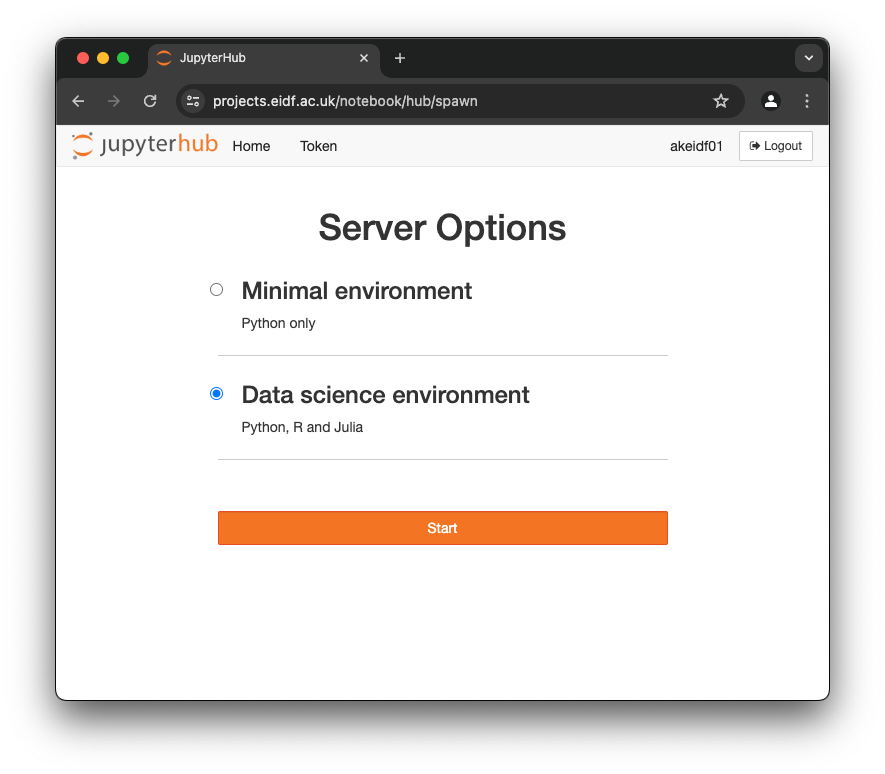
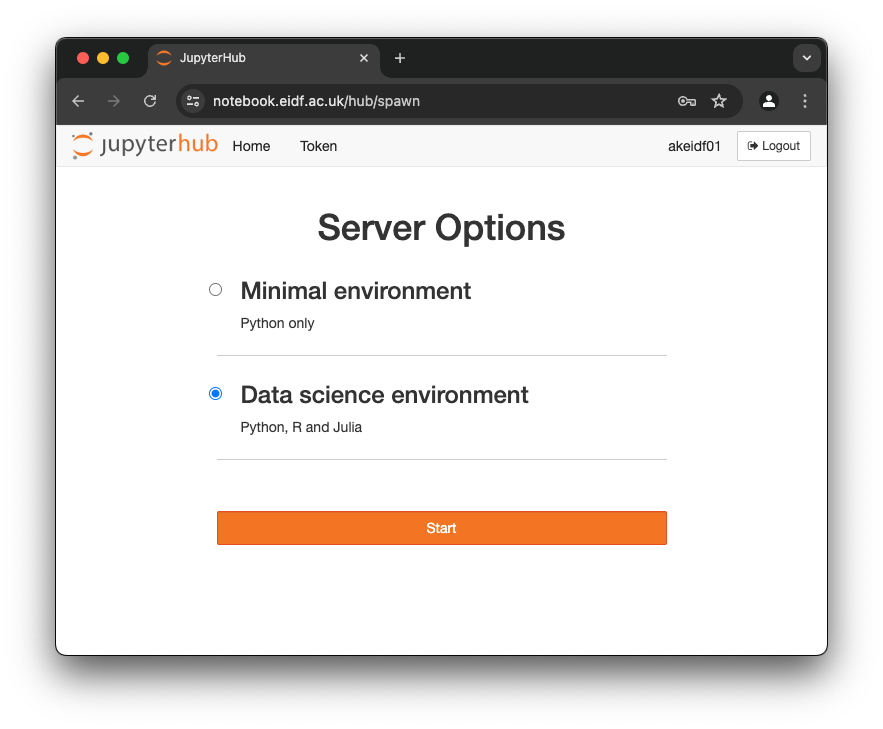
change notebook service url and link from menu

diff --git a/docs/services/jhub/quickstart.md b/docs/services/jhub/quickstart.md
@@ -2,7 +2,7 @@
 
 ## Accessing
 
-Access the EIDF Notebooks in your browser by opening [https://notebooks.eidf.ac.uk/](https://notebooks.eidf.ac.uk/). You must be a member of an active EIDF project and have a user account to use the EIDF Notebook Service.
+Access the EIDF Notebooks in your browser by opening [https://notebook.eidf.ac.uk/](https://notebook.eidf.ac.uk/). You must be a member of an active EIDF project and have a user account to use the EIDF Notebook Service.
 
 ![JupyterHub Login Page](../../images/access/jupyterhub-login.png)
 
@@ -50,7 +50,12 @@ pip install <package> --user
 
 ## Data
 
-There is a project space mounted in `/project_data`. Only project accounts have permissions to view and write to their project folder in this space. Here you can also share data with DSC VMs in your project. Please contact the helpdesk if you would like to mount this project space to one of your VMs. Data placed in `/project_data/shared` is shared with other notebook users outside your project.
+There is a project space mounted in `/project_data`. Only project accounts have permissions to view and write to their project folder in this space.
+Here you can share data with other notebook users in your project.
+Data placed in `/project_data/shared` is shared with other notebook users outside your project.
+
+You can also share data with DSC VMs in your project.
+Please contact the helpdesk if you would like to mount this project space to one of your VMs.
 
 ## Limits
 
